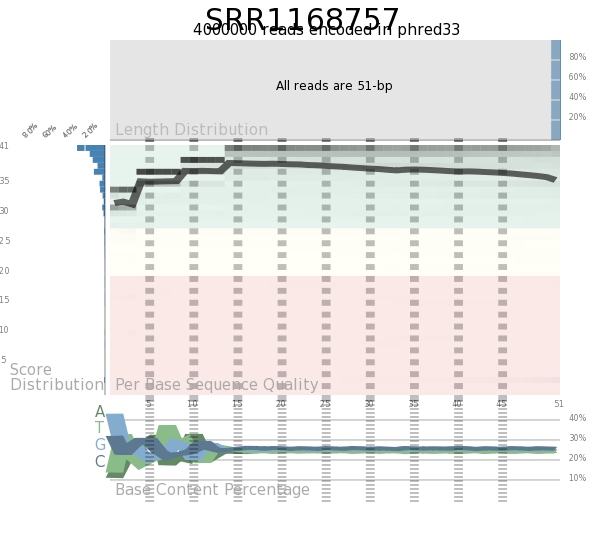
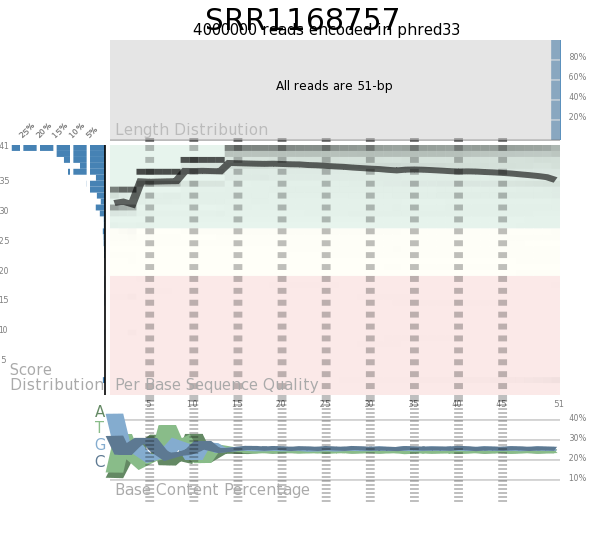
Adjust histogram max to data

Changed region(s): [[0.0, 0.2074, 0.1854, 0.7111]]

diff --git a/src/draw_svg.c b/src/draw_svg.c
@@ -552,11 +552,10 @@ void draw_svg_quality(sequence_data* data, int translate_x, int translate_y){
 }
 
 
-void draw_svg_length(sequence_data * data, int translate_x, int translate_y){
+void draw_svg_length(sequence_data * data, int translate_x, int translate_y, float max){
     int i, different;
     fpair_t *points = malloc(sizeof(fpair_t[data->max_length]));
     fpair_t original_size, final_size, translate, flip;
-    float max;
 
     for(i = 0; i < data->max_length; i++){
         points[i].x = (float) i;
@@ -564,14 +563,11 @@ void draw_svg_length(sequence_data * data, int translate_x, int translate_y){
     }
 
     different = 0;
-    max = 0.0;
     for(i = 0; i < data->max_length - 1; i++){
         points[i].y -= points[i+1].y;
 
         /* Set different flag if current point is greater than zero */
         different |= (points[i].y > 0.0);
-
-        if(max < points[i].y) max = points[i].y;
     }
 
     // check last point
@@ -580,7 +576,7 @@ void draw_svg_length(sequence_data * data, int translate_x, int translate_y){
     // Adjust max to nearest ten
     max = ceil(max / 10.0) * 10.0;
 
-    original_size = (fpair_t){data->max_length, 100};
+    original_size = (fpair_t){data->max_length, max};
     final_size    = (fpair_t){GRAPH_WIDTH, PERF_SIZE};
     translate     = (fpair_t){translate_x, translate_y};
     flip          = (fpair_t){0,1};
@@ -611,13 +607,13 @@ void draw_svg_length(sequence_data * data, int translate_x, int translate_y){
                       svg_attr("fill",        "%s", "black"));
         printf("All reads are %d-bp", data->max_length);
         svg_end_tag("text");
-}
+    }
 
 }
 
-void draw_svg_score(sequence_data * data, int translate_x, int translate_y, int flipx){
+void draw_svg_score(sequence_data * data, int translate_x, int translate_y, int flipx, float max){
     int i,j;
-    float total, max;
+    float total;
 
     fpair_t* points = calloc(data->max_score+1, sizeof(fpair_t));
     fpair_t original, final, translate, scale;
@@ -634,16 +630,14 @@ void draw_svg_score(sequence_data * data, int translate_x, int translate_y, int 
         }
     }
 
-    max = 0.0;
     for(i = 0; i <= data->max_score ; i++){
         points[i].y = points[i].y * 100.0 / total;
-        if(max < points[i].y) max = points[i].y;
     }
 
     // Get next ten for max
     max = ceil(max/10.0)*10.0;
 
-    original = (fpair_t){100, data->max_score+1};
+    original = (fpair_t){max, data->max_score+1};
     final    = (fpair_t){PERF_SIZE, GRAPH_HEIGHT};
     translate     = (fpair_t){translate_x, translate_y};
 
@@ -679,8 +673,15 @@ void draw_svg_score(sequence_data * data, int translate_x, int translate_y, int 
                        svg_attr("fill",   "%s", "steelblue")
                        );
 
+    /* Find a tick step that is
+     * - at least 5
+     * - divisible by 5,
+     * - creates 10 ticks */
+    int step = max/4;
+    step = (step /5 )*5;
+    if (step < 5) step = 5;
 
-    for(i = 20; i < 100; i+=20){
+    for(i = step; i < max; i+=step){
         svg_simple_tag("line", 7,
                        svg_attr("x1", "%d", i),
                        svg_attr("x2", "%d", i),
@@ -720,7 +721,7 @@ void draw_svg_score(sequence_data * data, int translate_x, int translate_y, int 
      * - at least 5
      * - divisible by 5,
      * - creates 10 ticks */
-    int step = data->max_score/10;
+    step = data->max_score/10;
     step = (step /5 )*5;
     if (step < 5) step = 5;
 
@@ -747,7 +748,7 @@ void draw_svg_score(sequence_data * data, int translate_x, int translate_y, int 
                       svg_attr("fill",        "%s", "black"),
                       svg_attr("fill-opacity",        "%f", 0.5),
                       svg_attr("transform", "translate(%f %f) scale(%f %f)",
-                               100.0, i+0.5,
+                               max, i+0.5,
                                1.0/scale.x, 1.0/scale.y));
 
         printf("%d", i);
@@ -765,7 +766,7 @@ void draw_svg_score(sequence_data * data, int translate_x, int translate_y, int 
                       svg_attr("fill",        "%s", "black"),
                       svg_attr("fill-opacity",        "%f", 0.5),
                       svg_attr("transform", "translate(%f %f) scale(%f %f)",
-                               100.0, data->max_score+0.5,
+                               max, data->max_score+0.5,
                                1.0/scale.x, 1.0/scale.y));
 
         printf("%d", data->max_score);
@@ -825,6 +826,54 @@ void draw_svg(sequence_data* forward,
               char* name,
               int adapters_used){
 
+    int i, j;
+    float max_length, max_score, max_content, max_adapter;
+
+    max_length = 0;
+    for(i = 0; i < forward->max_length; i++){
+        float current = forward->bases[i].length_count*100.0/forward->number_of_sequences;
+        if(current > max_length) max_length = current;
+    }
+    if(reverse){
+        for(i = 0; i < reverse->max_length; i++){
+            float current = reverse->bases[i].length_count*100.0/reverse->number_of_sequences;
+            if(current > max_length) max_length = current;
+        }
+    }
+
+    max_score = 0;
+    float*points = calloc(forward->max_score+1, sizeof(fpair_t));
+    float total = 0;
+    for(i = 0; i < forward->max_length; i++){
+        for(j =0; j <= forward->max_score; j++){
+            total += forward->bases[i].scores[j];
+            points[j] += forward->bases[i].scores[j];
+        }
+    }
+
+    for(i = 0; i <= forward->max_score ; i++){
+        float current = points[i] * 100.0 / total;
+        if(current > max_score) max_score = current;
+    }
+    free(points);
+
+    if(reverse){
+    points = calloc(reverse->max_score+1, sizeof(fpair_t));
+    total = 0;
+    for(i = 0; i < reverse->max_length; i++){
+        for(j =0; j <= reverse->max_score; j++){
+            total += reverse->bases[i].scores[j];
+            points[j] += reverse->bases[i].scores[j];
+        }
+    }
+
+    for(i = 0; i <= reverse->max_score ; i++){
+        float current = points[i] * 100.0 / total;
+        if(current > max_score) max_score = current;
+    }
+    free(points);
+    }
+
     /* Set width */
     int width = 615;
     if(reverse)
@@ -868,10 +917,6 @@ void draw_svg(sequence_data* forward,
     int current_x = GRAPH_PAD*2 + PERF_SIZE;
 
 
-    int i;
-
-
-
     svg_start_tag("text", 6,
                       svg_attr("x", "%f", (GRAPH_WIDTH/2) + PERF_SIZE + GRAPH_PAD),
                       svg_attr("y", "%d", 0),
@@ -883,14 +928,14 @@ void draw_svg(sequence_data* forward,
         svg_end_tag("text");
 
 
-    draw_svg_length(forward, current_x, current_y);
+    draw_svg_length(forward, current_x, current_y, max_length);
 
     current_y += PERF_SIZE + GRAPH_PAD;
 
 
 
 
-    draw_svg_score(forward, GRAPH_PAD, current_y, 0);
+    draw_svg_score(forward, GRAPH_PAD, current_y, 0, max_score);
 
 
 
@@ -924,13 +969,13 @@ void draw_svg(sequence_data* forward,
         svg_end_tag("text");
 
 
-        draw_svg_length(reverse, current_x, current_y);
+        draw_svg_length(reverse, current_x, current_y, max_length);
 
         current_y += PERF_SIZE + GRAPH_PAD;
 
 
 
-        draw_svg_score(reverse, current_x + GRAPH_WIDTH + GRAPH_PAD, current_y, 1);
+        draw_svg_score(reverse, current_x + GRAPH_WIDTH + GRAPH_PAD, current_y, 1, max_score);
         draw_svg_quality(reverse, current_x, current_y);
 
         current_y += GRAPH_HEIGHT + GRAPH_PAD;
